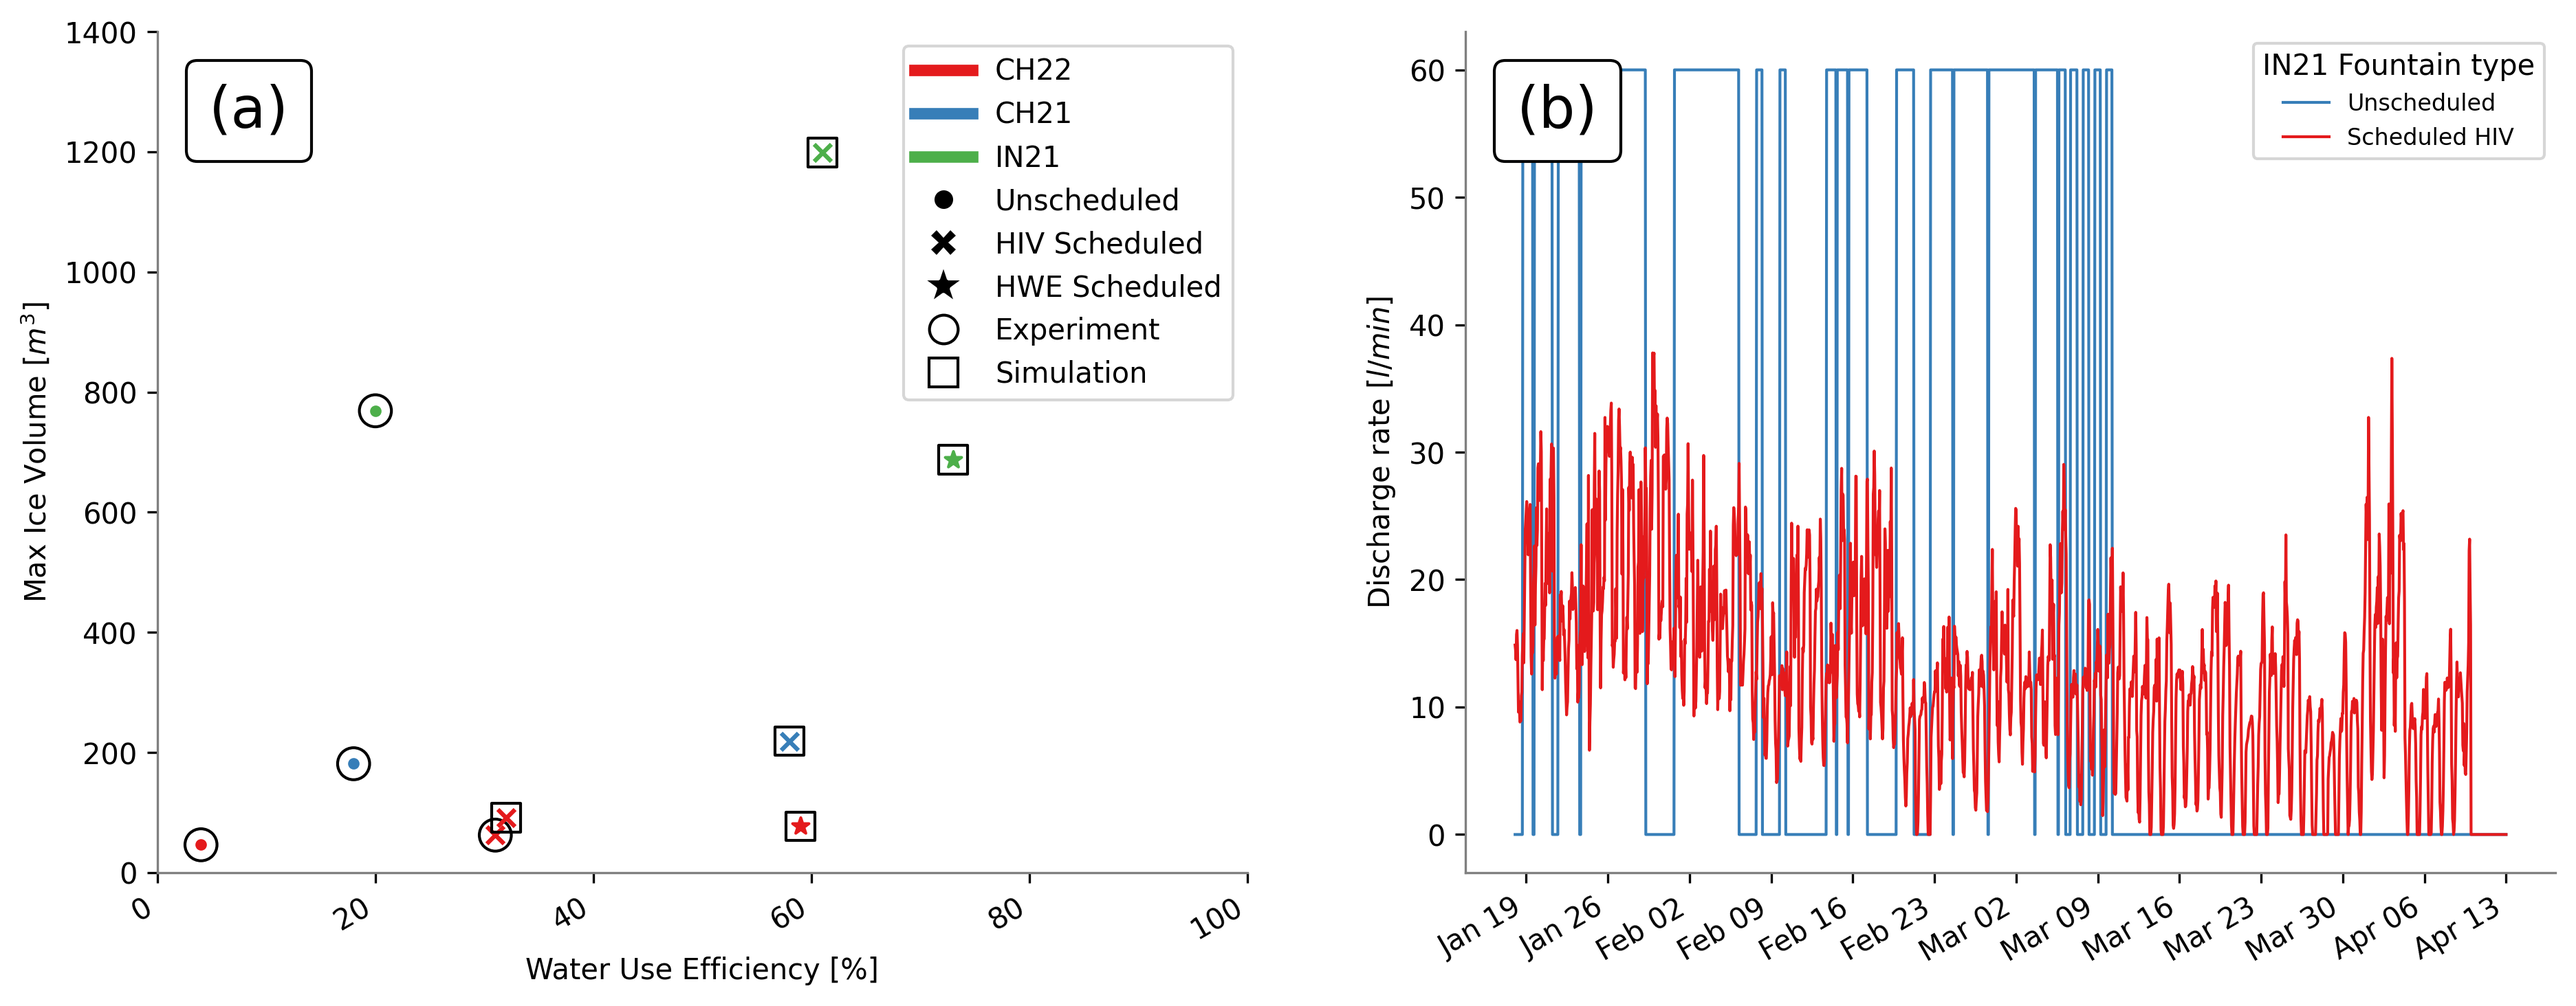
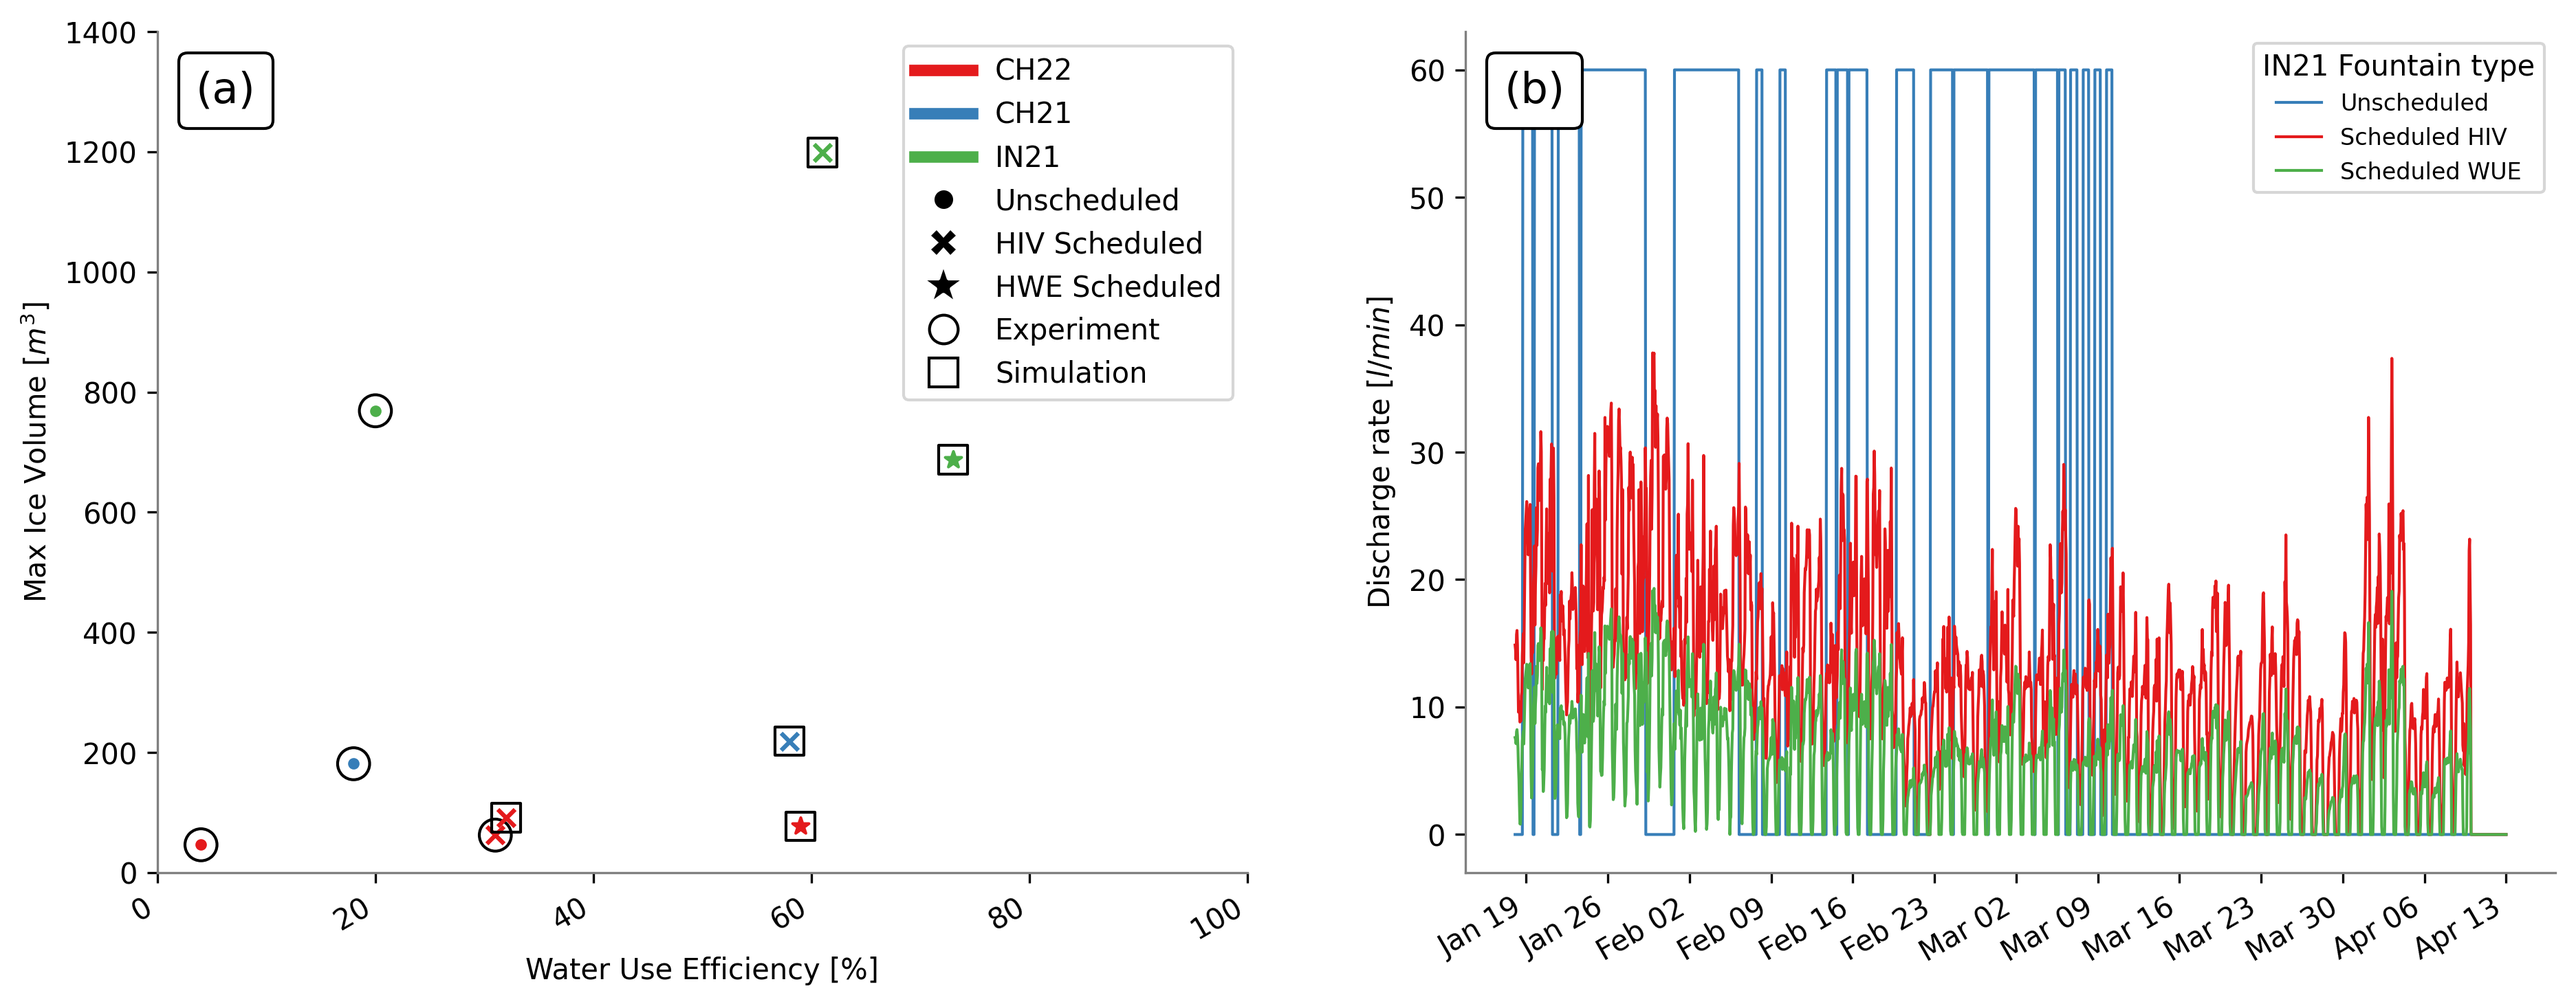
Discussion update

diff --git a/tech.tex b/tech.tex
@@ -137,7 +137,7 @@ the winters of 2021-22 using a traditional and an automated construction strateg
 \begin{figure}[t]
 \includegraphics[width=8.3cm]{Figures/2AIRs.jpg}
 \caption{Automated and traditional AIRs at Guttannen on February 6, 2022. Picture credits: Daniel Bürki}
-\label{fig:2AIR} 
+\label{fig:2AIR}
 \end{figure}
 
 The automated and the traditional AIRs were constructed adjacent to each other as shown in Fig. \ref{fig:2AIR}.
@@ -625,7 +625,7 @@ forced model. }
 \caption{(a) The maximum volumes and water-use efficiency estimated for AIRs constructed in different locations
 (represented by colours) with different fountain scheduling strategies (represented by symbols). Experimental
 values are highlighted by circles and simulated values are highlighted by squares. (b) Comparison of
-the unscheduled and HIV scheduled fountain's discharge rates at the IN21 location.}
+the unscheduled and scheduled fountain's discharge rates at the IN21 location.}
 
 \label{fig:wue}
 \end{figure*}
@@ -658,29 +658,50 @@ For the Swiss location, scheduled fountains yield better water-use efficiency bu
 volume obtained significantly. 
 
 For the Indian location, the two kinds of scheduled fountains yield significantly different results when
-compared to the unscheduled fountain. The HIV fountain was able to achieve a 1.5 fold increase in the maximum
-volume and a 2 fold increase in the water-use efficiency compared to the unscheduled fountain because its
-discharge rate was much lower and its discharge duration was much longer as shown in Fig. \ref{fig:wue} (b). The
-discharge duration of both the HIV and HWE fountains were higher than the unscheduled fountain since they were
-not interrupted and limited by fountain freezing events. Even though the HWE fountain achieved water-use
-efficiency higher than the HIV fountain, its maximum volume was even lower than the unscheduled fountain.
+compared to the unscheduled fountain. The HIV fountain achieved a 1.5 fold increase in the maximum volume and a
+2 fold increase in the water-use efficiency. The HWE fountain had a water-use efficiency of 73 \% but its
+maximum ice volume was lower than the unscheduled fountain. 
+
+The discharge duration and the max discharge rate of these three fountains were responsible for these different
+results (see Fig. \ref{fig:wue} (b)). The max discharge rate of the unscheduled fountain was more than twice
+that of scheduled fountains resulting in a high water loss.  Fountain freezing events caused frequent
+interruptions in the unscheduled discharge rate (see Fig. \ref{fig:wue} (b)). Therefore, the discharge duration
+of the unscheduled fountain was much lower resulting in lower ice volumes. The HWE fountain underestimated the
+freezing rate during the construction period and therefore produced much lower ice volumes compared to the
+scheduled HIV fountain.
+
+\subsubsection{Traditional vs Automated strategy}
+
+Fig. \ref{fig:wue} (b) illustrates the significant maintenance required for the unscheduled IN21 fountain.
+Manual maintenance of the fountain pipeline was required each time a fountain freezing event forced the
+discharge rate to zero. This maintenace requirement could have been completely avoided if an automated
+construction strategy was used instead. 
 
 \subsection{Challenges of scheduling fountains}
 
-Fountain freezing events limit the minimum discharge rate possible in scheduled fountains.  We assume that
-discharge rate above 2 $l/min$ prevents fountain freezing events. The model simulations revealed that the
-nonzero median scheduled fountain discharge rate at the IN21 and CH21 AIRs were 13 $l/min$ and 2 $l/min$,
-respectively.
+\subsubsection{Preventing fountain freezing events}
+
+Fountain freezing events occur when discharge rate lowers below a minimum threshold. For the CH22 experiments,
+this mimimum threshold was assumed to be 2 $l/min$. However, this value is site-specific since it depends on the
+pipeline material used, water supply available and the temperature variations of the location.  Moreover,
+favourable weather windows available for fountain spray are further reduced since the fountain pipelines need to
+be operated above this minimum threshold.
 
 Fountain height increase events also trigger fountain freezing events. This is because the higher the fountain
 the lower the gravitational pressure that drives the discharge rate. This was why the fountain freezing event of
-the unscheduled fountain was observed to occur almost immediately after the fountain height was increased. 
+the unscheduled fountain was observed to occur almost immediately after the fountain height was increased.  
+
+Therefore, setting this minimum discharge rate and fountain freezing height is crucial in order to prevent
+fountain freezing events. The methodology described here could be used to determine the fountain freezing
+height. However, minimum discharge rate has to be determined based on fountain spray observations.
 
 To schedule fountains, one needs to estimate their spray radius accurately since the recommended discharge rate
 is proportional to the square of the spray radius used.  Manual measurements of the fountain spray revealed a
 maximum spray radius of just 3 m but drone measurements reveal a fountain spray radius of 4.8 m for the
 scheduled fountain. This discrepancy could be caused by both wind drift of water droplets and refreezing events
 across the boundary of the AIR. 
+
+\subsubsection{Determination of fountain spray radius}
 
 Fig. \ref{fig:radf} compares the temporal variation of the estimated spray radius with the measured spray radius
 using Eqn. \ref{eqn:radf}. For the unscheduled fountain, estimated spray radius only assumes two values
@@ -701,6 +722,7 @@ projectile motion of water droplets. The dots represent the observed spray radiu
 \label{fig:radf}
 \end{figure*}
 
+
 \subsection{Controlling AIR shape through fountain characteristics}
 
 CH22 experiment shows that two fountains with different aperture diameter but with the same water source produce
@@ -709,8 +731,6 @@ automated one due to the higher aperture diameter of the unscheduled fountain.  
 how the higher aperture diameter of the unscheduled fountain resulted in a lower spray radius.  Therefore, under
 identical weather conditions and with similar water source, fountains with higher aperture diameter produce ice
 cones with higher slopes.
-
-% Given the slope of an AIR, the surface area by volume ratio becomes:
 
 \section{Conclusions and recommendations}
 
